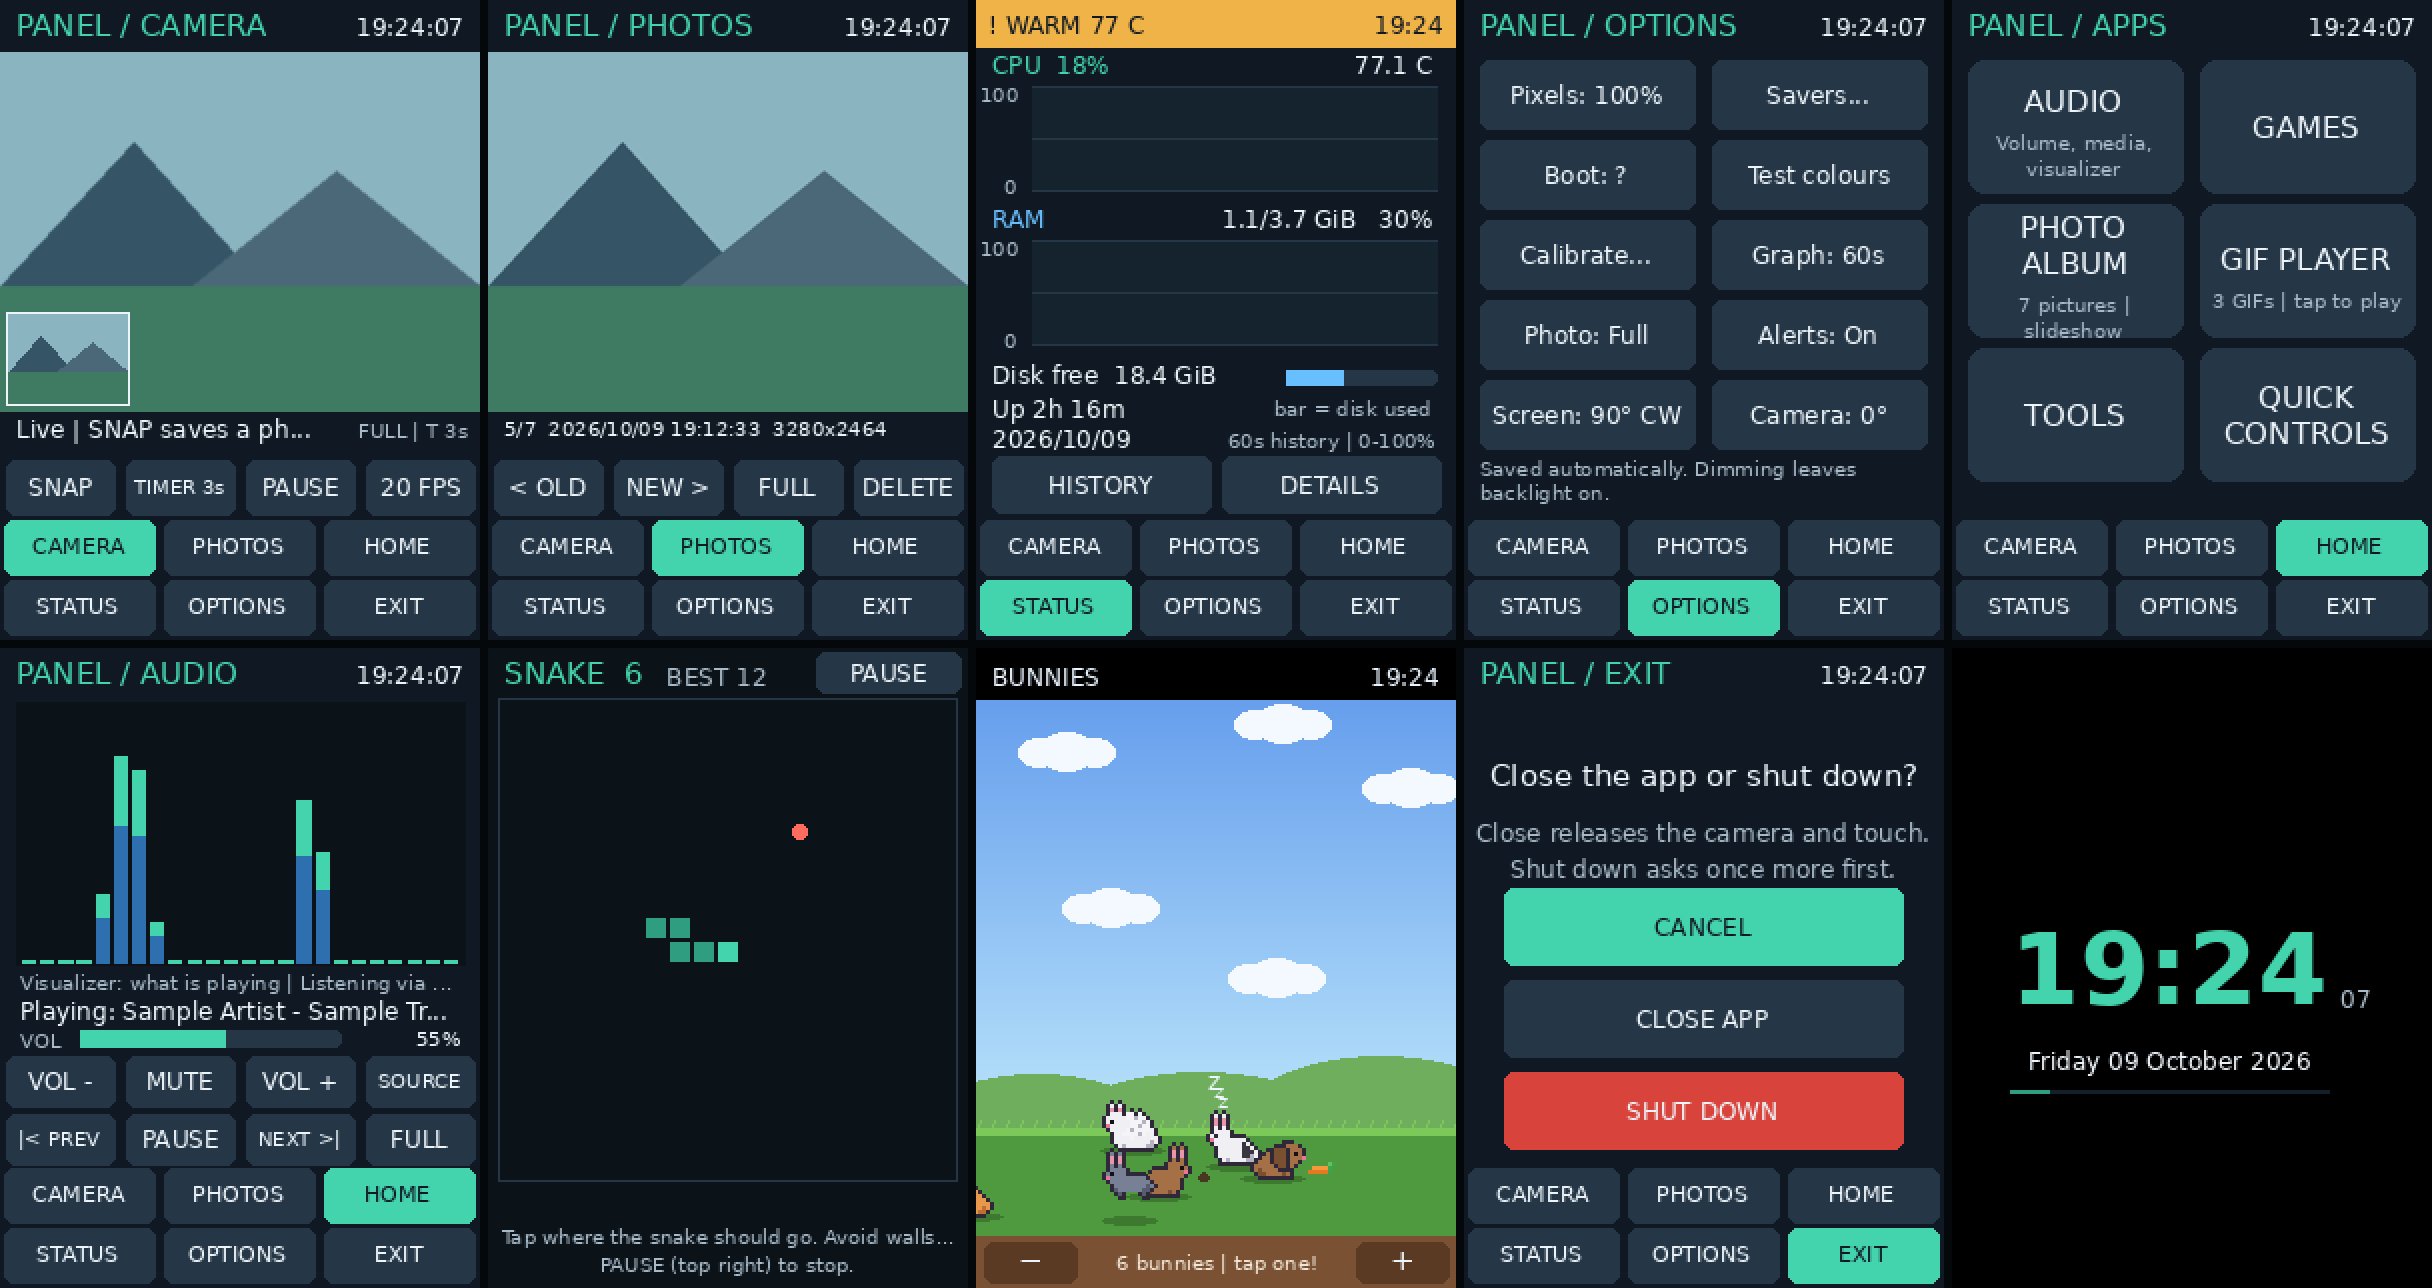
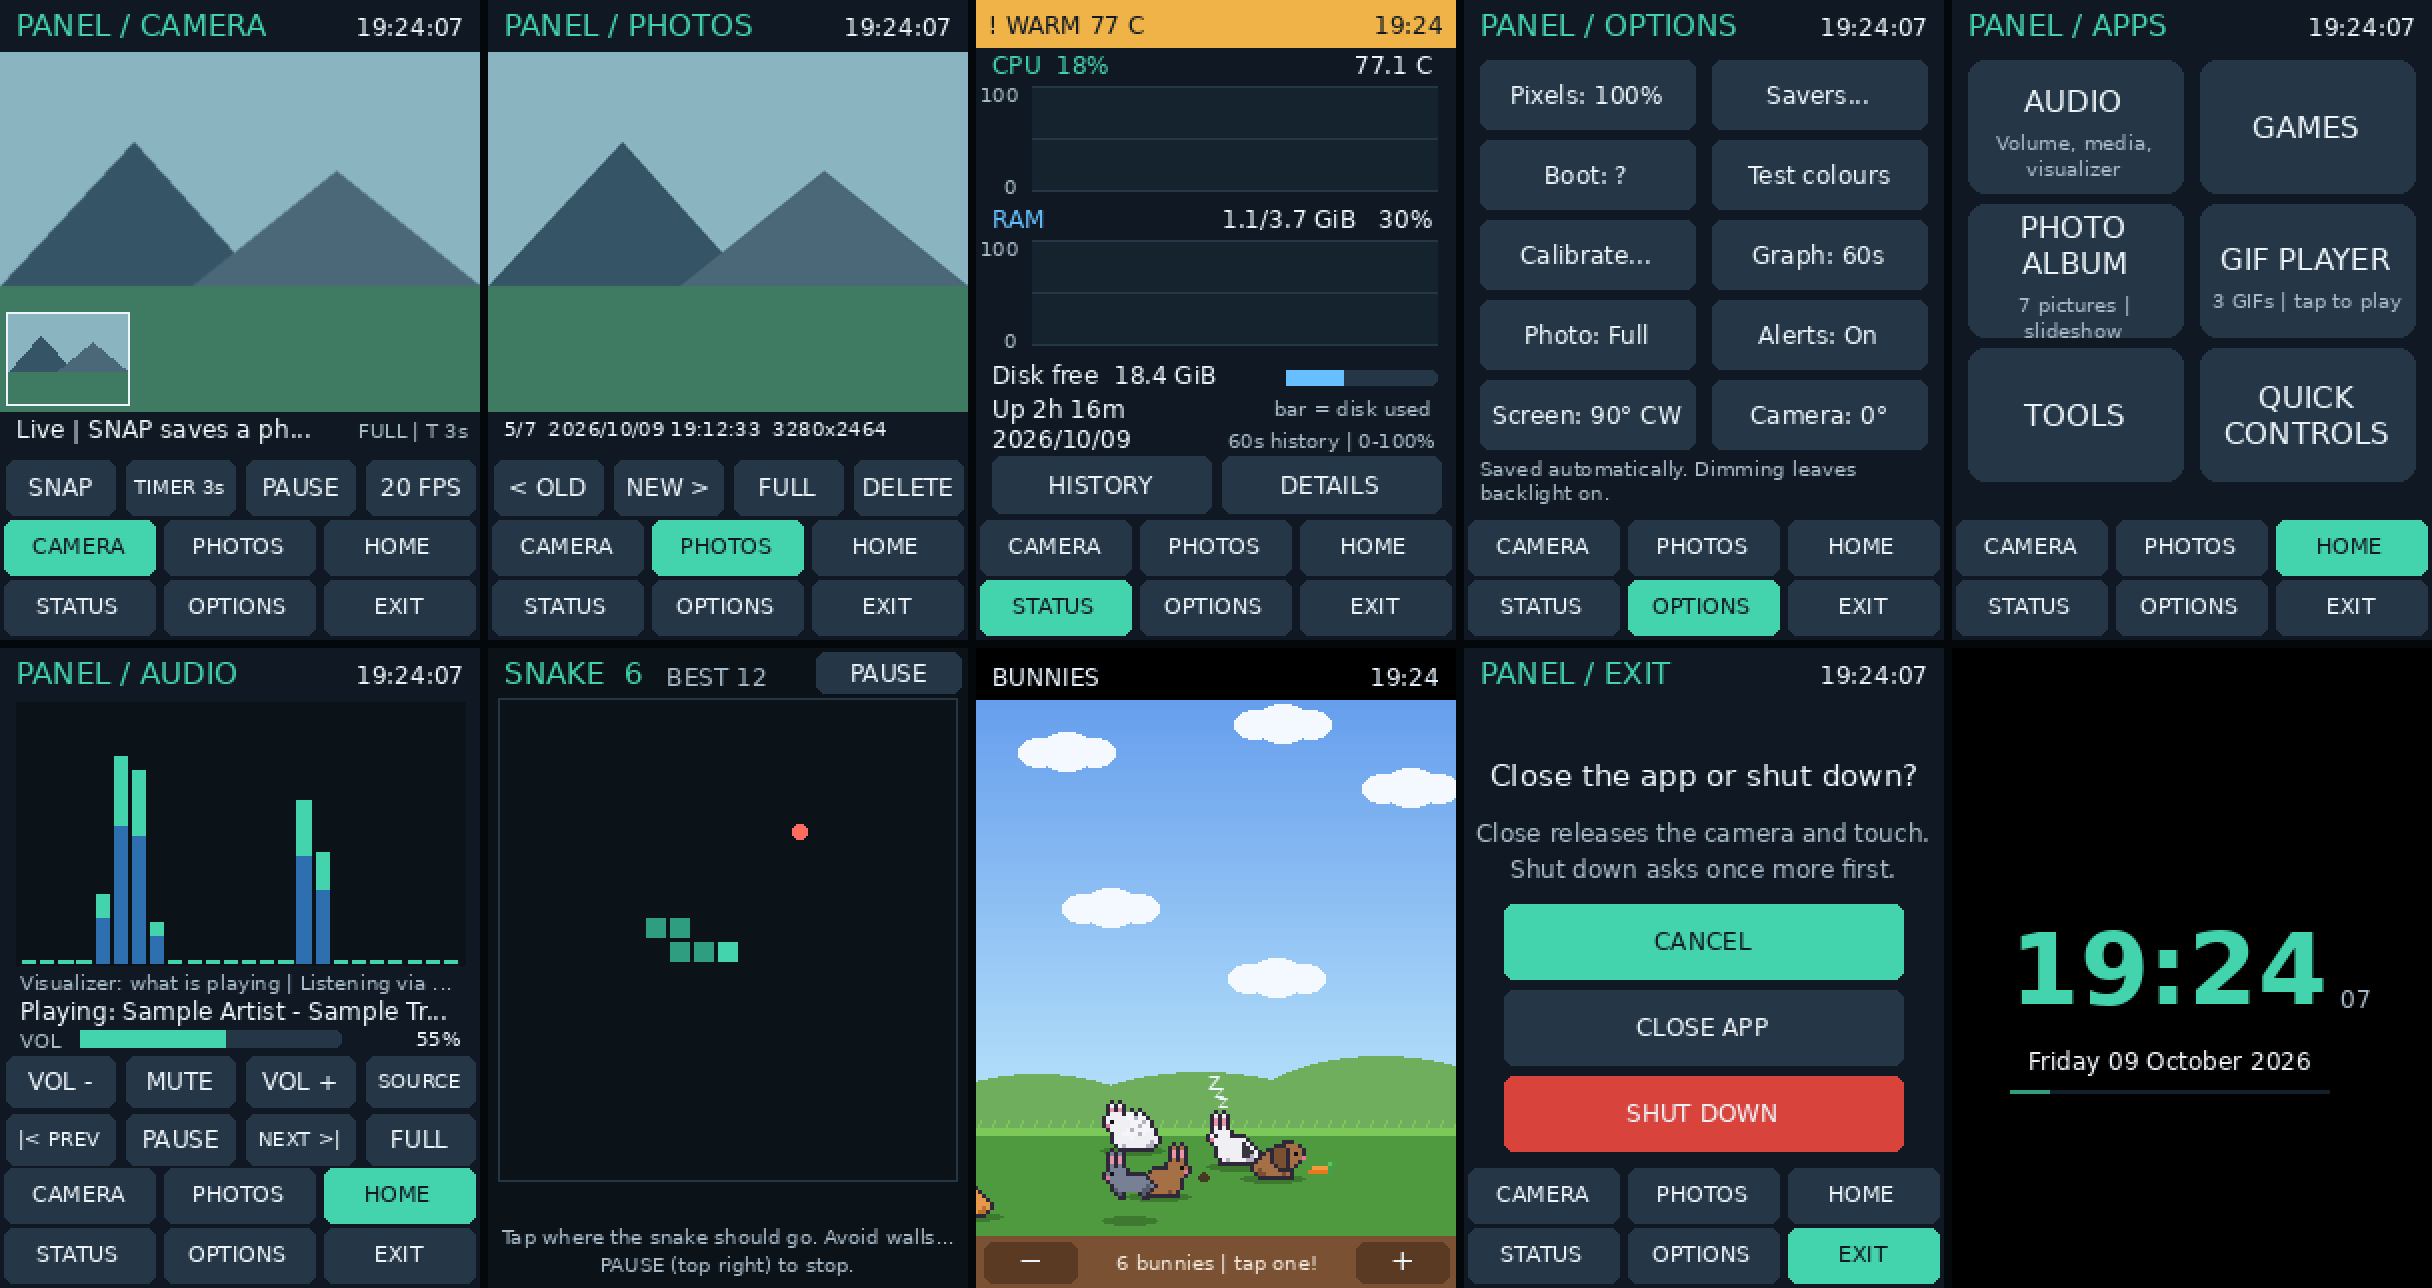
Give the portrait Exit page's text room above the buttons
The second line of text ended where CANCEL began. The three buttons
start 8 px lower and sit 3 px closer together.

Claude-Session: https://claude.ai/code/session_016w3uQjEr2ZwcCKuYp4Kst7

Changed region(s): [[0.5938, 0.6832, 0.7812, 0.8696]]

diff --git a/panel_app.py b/panel_app.py
@@ -3816,7 +3816,8 @@ def render_page(page, frame, paused, fps, rows, message, history=(), now=None,
         centred(d, 80+top, 'Close releases the camera and touch.', SMALL, MUTED)
         centred(d, 98+top, 'Busy: wait before closing.' if extra.get('busy') else
                 'Shut down asks once more first.', SMALL, MUTED)
-        rects = ([(20, 120+i*46, W-21, 158+i*46) for i in range(3)] if portrait() else
+        # Portrait: start below the second line of text, which ends near y=122.
+        rects = ([(20, 128+i*43, W-21, 165+i*43) for i in range(3)] if portrait() else
                  row_rects(3, 121, 174, margin=12, gap=11))
         for rect, label, action in zip(rects,
                                        ('CANCEL', 'CLOSE APP', 'SHUT DOWN'),
